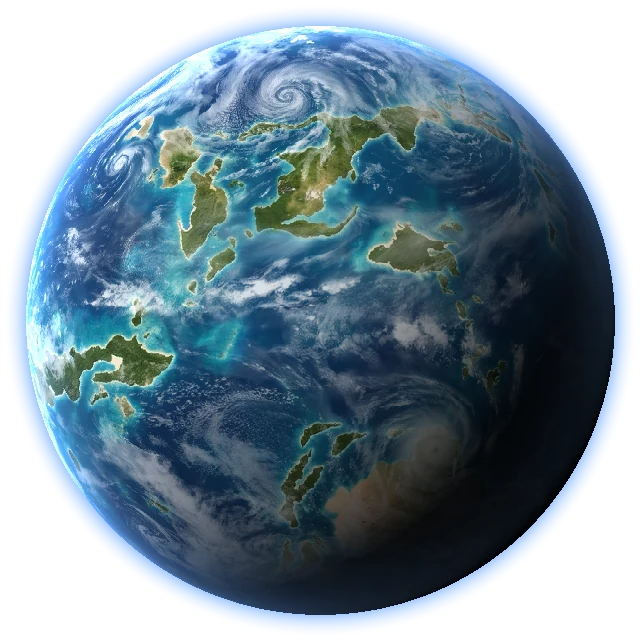
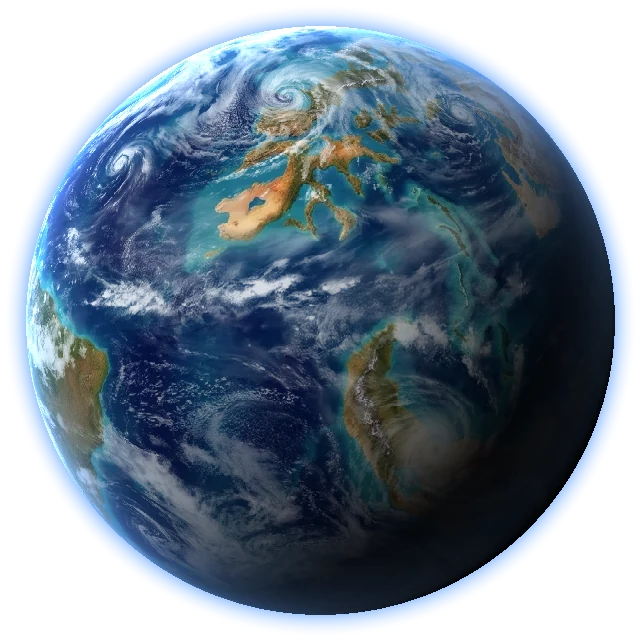
Ankora sisteminin ana gezegeni Veyra haritasını kullansın (1.10.1)
Claude-Session: https://claude.ai/code/session_01YNY6pHbJFdPU9EshY3GZjT

diff --git a/index.html b/index.html
@@ -132,7 +132,7 @@ body,button{font-size-adjust:.5}
 <script>
 /* SÜRÜM: her güncellemede bu numarayı artır. Tarayıcı eski game.js dosyasını önbellekten getirmez,
    ayarlar panelinin altında da bu numara görünür. */
-window.SD_VERSION = '1.10.0';
+window.SD_VERSION = '1.10.1';
 document.write('<script src="vendor/three-bloom.js?v=' + window.SD_VERSION + '"><\/script>');
 document.write('<script src="js/game.js?v=' + window.SD_VERSION + '"><\/script>');
 </script>
